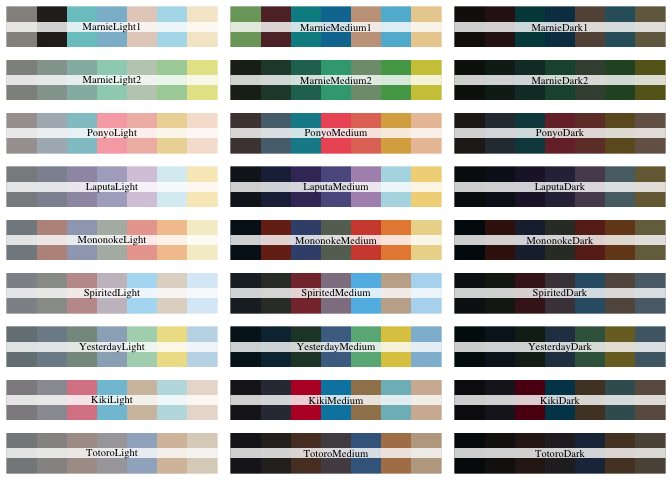
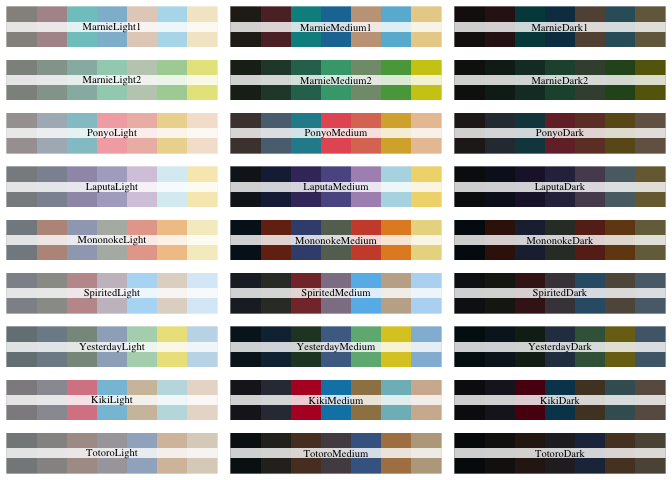
update news/readme

diff --git a/NEWS.md b/NEWS.md
@@ -1,0 +1,22 @@
+# Version 0.2.1
+
+## Breaking changes
+
+* Most colours used within `ghibli` palettes have seen hex values updates. In most cases, these are extremely small hex value tweaks. Several colours within the `MarnieLight1` and `MarnieMedium1` palettes have changed noticeably, where these were inconsistent with source material.
+
+# Version 0.2.0
+
+* Added support for relevant ggplot2 scales (continuous/discrete).
+
+# Version 0.1.2
+
+* Fixed malformed documentation in `ghibli_palette`.
+* Removed a bad example plot from package vignette `ghibli-guide`.
+
+# Version 0.1.1
+
+* New palettes (Kiki and Totoro).
+
+# Version 0.1.0
+
+* First palettes and first CRAN release.

diff --git a/README.md b/README.md
@@ -68,7 +68,7 @@ ggplot(iris, aes(Sepal.Length, Sepal.Width, color = Species)) +
   geom_jitter(size = 3) +
   theme_minimal() +
   # ghibli stuff
-  scale_colour_ghibli_d("MarnieMedium1")
+  scale_colour_ghibli_d("LaputaMedium", direction = -1)
 ```
 
 ![](man/figures/README-ggplot2-eg-1.png)<!-- -->
